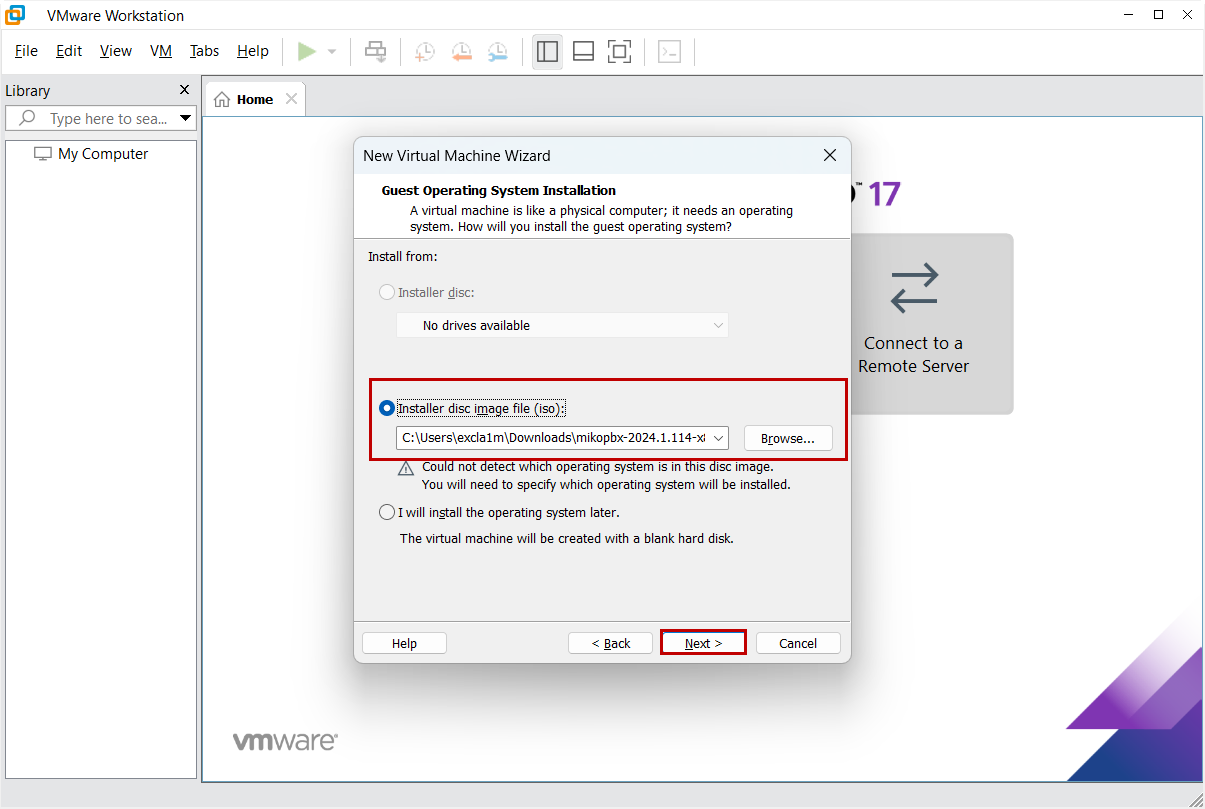
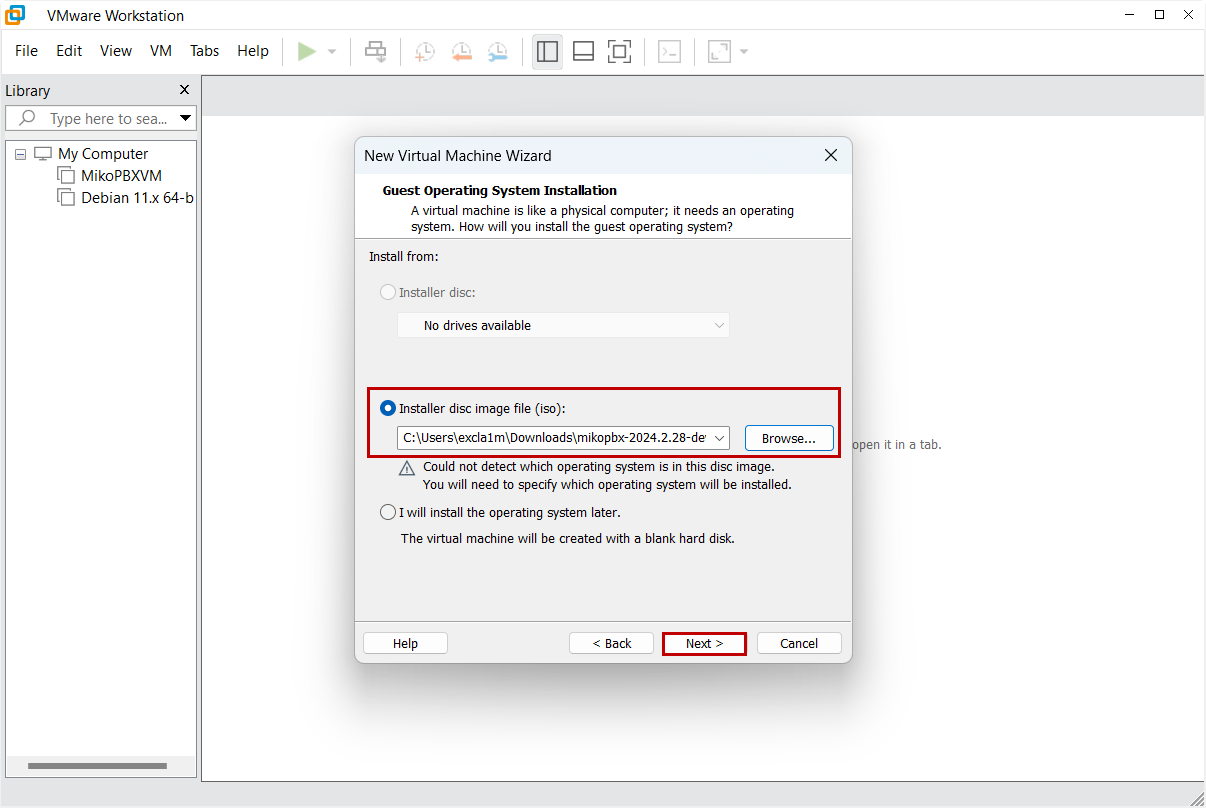
GITBOOK-662: No subject

diff --git a/setup/hypervisor/vmware-workstation-pro.md b/setup/hypervisor/vmware-workstation-pro.md
@@ -4,6 +4,12 @@
 
 Установить VMware Workstation Pro можно [на сайте](https://www.vmware.com/).
 
+{% hint style="warning" %}
+Используйте для установки на VMware Workstation Pro версии АТС MikoPBX отличные от 2024.1.114
+
+Версия 2024.1.114 временно не поддерживает установку на VMware Workstation Pro
+{% endhint %}
+
 ## Создание виртуальной машины
 
 1. Перейдите в интерфейс VMware WorkStation Pro. Нажмите кнопку "**Create a New Virtual Machine**" для создания новой виртуальной машины.
@@ -16,7 +22,7 @@
 
 3. Далее выберите источник установки "**Installer disc image file (iso)**:", выберите файл образа диска с расширением .iso. Скачать дистрибутив вы можете по [ссылке](https://www.mikopbx.ru/download/). После выбора нажмите "**Next >**" для продолжения.
 
-<figure><img src="../../.gitbook/assets/chooseISOImage.png" alt=""><figcaption><p>Выбор источника установки системы для создаваемой виртуальной машины</p></figcaption></figure>
+<figure><img src="../../.gitbook/assets/chooseISOImage (2).png" alt=""><figcaption><p>Выбор источника установки системы для создаваемой виртуальной машины</p></figcaption></figure>
 
 4. Выберите "**Linux**" в поле "**Guest operating system**". В качестве "**Version**" - "**Debian 11.x 64-bit**". Нажмите "**Next >**"
 
@@ -80,7 +86,7 @@
 
 2. Откроется командный интерфейс MikoPBX. АТС начнет загружаться. На данном этапе MikoPBX загружается с оптического диска, на который записан ISO-образ. На это нам указывает строчка: "<mark style="color:red;">**The system is loaded in Recovery mode**</mark>".
 
-<figure><img src="../../.gitbook/assets/startPageConsole.png" alt=""><figcaption><p>Загруженная MikoPBX с оптического диска</p></figcaption></figure>
+<figure><img src="../../.gitbook/assets/startPageConsole (1).png" alt=""><figcaption><p>Загруженная MikoPBX с оптического диска</p></figcaption></figure>
 
 {% hint style="info" %}
 Перемещаться по пунктам меню можно [клавишами управления курсором](https://ru.wikipedia.org/wiki/%D0%9A%D0%BB%D0%B0%D0%B2%D0%B8%D1%88%D0%B8\_%D1%83%D0%BF%D1%80%D0%B0%D0%B2%D0%BB%D0%B5%D0%BD%D0%B8%D1%8F\_%D0%BA%D1%83%D1%80%D1%81%D0%BE%D1%80%D0%BE%D0%BC).
@@ -107,4 +113,23 @@
 
 8.  После завершения установки система перезагрузится.
 
-    Теперь MikoPBX будет запускаться с диска **sdb**, на который вы ее установили. Увидим, что строчка «<mark style="color:red;">**The system is loaded in Recovery mode**</mark>» отсутствует.
+    Теперь MikoPBX будет запускаться с диска **sdb**, на который вы ее установили. Увидим, что строчка «<mark style="color:red;">**The system is loaded in Recovery mode**</mark>» отсутствует. Это значит, что установка MikoPBX совершена успешно.
+
+<figure><img src="../../.gitbook/assets/finalConsoleMikoPBX.png" alt=""><figcaption><p>Успешно установленная MikoPBX</p></figcaption></figure>
+
+## Первый вход в MikoPBX
+
+Для того, чтобы открыть веб-интерфейс MikoPBX вам надо вписать в строку браузера IP-адрес вашей виртуальной машины, найти его вы можете в консоли.
+
+<figure><img src="../../.gitbook/assets/mikopbxipaddress.png" alt=""><figcaption><p>IP-адрес MikoPBX</p></figcaption></figure>
+
+Впишите IP-адрес в адресную строку вашего браузера. Произведите первый вход в MikoPBX по стандартному логину и паролю.
+
+{% hint style="success" %}
+При первом входе в WEB-интерфейс MikoPBX используйте стандартные данные:
+
+* Логин: admin
+* Пароль: admin
+{% endhint %}
+
+<figure><img src="../../.gitbook/assets/firstLoginToMikoPBXWEB.png" alt=""><figcaption><p>Страница авторизации в WEB-интерфейс MikoPBX</p></figcaption></figure>
